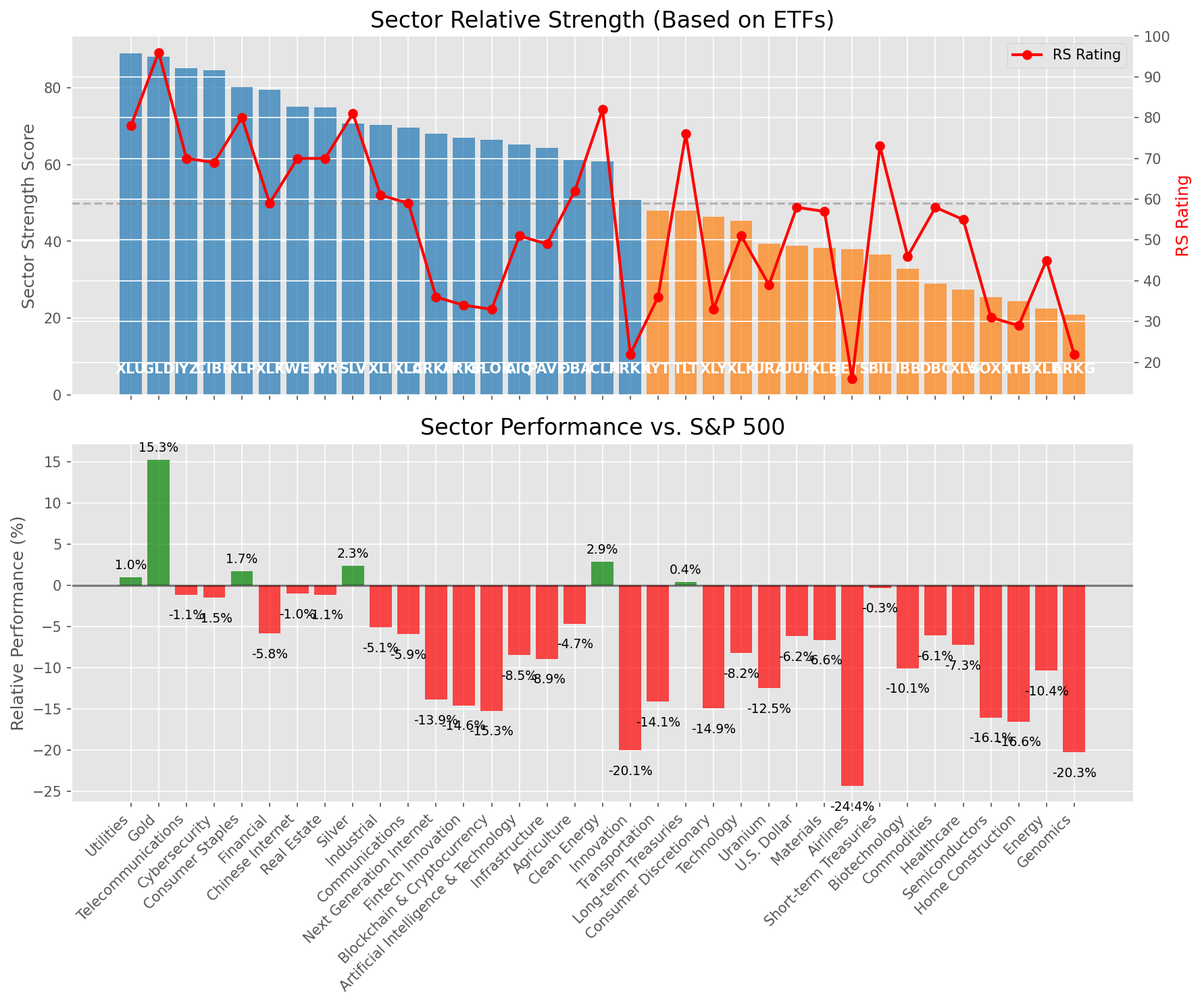
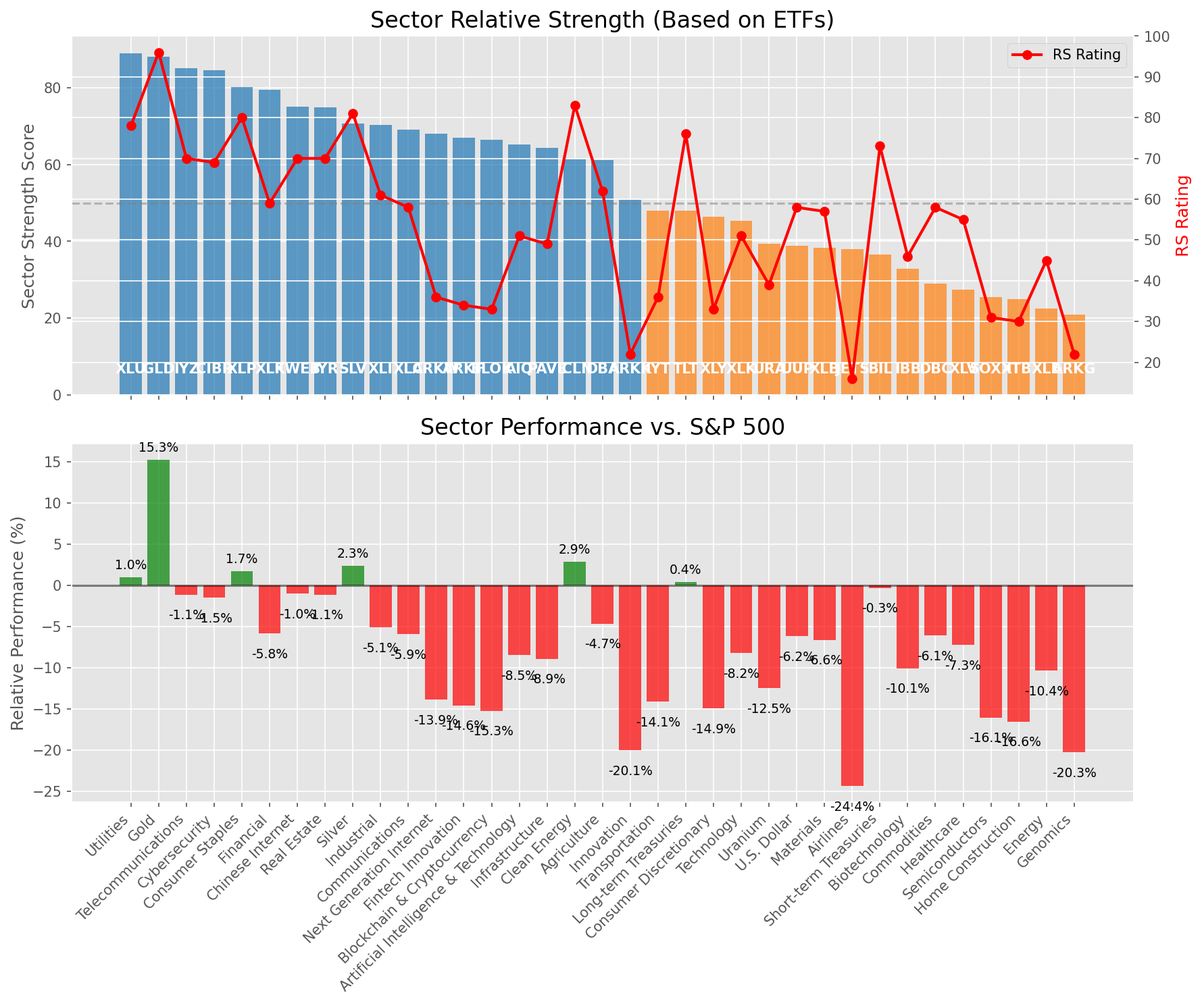
Add market report for 2025-05-01

diff --git a/oneil_relative_strength_report_2025-05-01.md b/oneil_relative_strength_report_2025-05-01.md
@@ -59,14 +59,14 @@ Based on William O'Neil's Relative Strength Methodology
 | [IYR](https://www.tradingview.com/chart/?symbol=IYR) | 74.8 | 70.0 | -1.14% | 10d ✓, 50d ✓, 200d ✗ | ↗ | Real Estate |
 | [SLV](https://www.tradingview.com/chart/?symbol=SLV) | 70.7 | 81.0 | 2.33% | 10d ✗, 50d ✗, 200d ✓ | ↗ | Silver |
 | [XLI](https://www.tradingview.com/chart/?symbol=XLI) | 70.3 | 61.0 | -5.11% | 10d ✓, 50d ✓, 200d ✗ | ↗ | Industrial |
-| [XLC](https://www.tradingview.com/chart/?symbol=XLC) | 69.6 | 59.0 | -5.92% | 10d ✓, 50d ✗, 200d ✓ | ↗ | Communications |
+| [XLC](https://www.tradingview.com/chart/?symbol=XLC) | 69.1 | 58.0 | -5.92% | 10d ✓, 50d ✗, 200d ✓ | ↗ | Communications |
 | [ARKW](https://www.tradingview.com/chart/?symbol=ARKW) | 68.0 | 36.0 | -13.88% | 10d ✓, 50d ✓, 200d ✓ | ↗ | Next Generation Internet |
 | [ARKF](https://www.tradingview.com/chart/?symbol=ARKF) | 67.0 | 34.0 | -14.58% | 10d ✓, 50d ✓, 200d ✓ | ↗ | Fintech Innovation |
 | [BLOK](https://www.tradingview.com/chart/?symbol=BLOK) | 66.5 | 33.0 | -15.26% | 10d ✓, 50d ✓, 200d ✓ | ↗ | Blockchain & Cryptocurrency |
 | [AIQ](https://www.tradingview.com/chart/?symbol=AIQ) | 65.3 | 51.0 | -8.47% | 10d ✓, 50d ✓, 200d ✗ | ↗ | Artificial Intelligence & Technology |
 | [PAVE](https://www.tradingview.com/chart/?symbol=PAVE) | 64.3 | 49.0 | -8.91% | 10d ✓, 50d ✓, 200d ✗ | ↗ | Infrastructure |
+| [ICLN](https://www.tradingview.com/chart/?symbol=ICLN) | 61.3 | 83.0 | 2.89% | 10d ✓, 50d ✓, 200d ✗ | ↘ | Clean Energy |
 | [DBA](https://www.tradingview.com/chart/?symbol=DBA) | 61.2 | 62.0 | -4.66% | 10d ✗, 50d ✗, 200d ✓ | ↗ | Agriculture |
-| [ICLN](https://www.tradingview.com/chart/?symbol=ICLN) | 60.8 | 82.0 | 2.89% | 10d ✓, 50d ✓, 200d ✗ | ↘ | Clean Energy |
 | [ARKK](https://www.tradingview.com/chart/?symbol=ARKK) | 50.8 | 22.0 | -20.06% | 10d ✓, 50d ✓, 200d ✗ | ↗ | Innovation |
 | [IYT](https://www.tradingview.com/chart/?symbol=IYT) | 47.9 | 36.0 | -14.14% | 10d ✓, 50d ✗, 200d ✗ | ↗ | Transportation |
 | [TLT](https://www.tradingview.com/chart/?symbol=TLT) | 47.9 | 76.0 | 0.40% | 10d ✓, 50d ✗, 200d ✗ | ↘ | Long-term Treasuries |
@@ -81,7 +81,7 @@ Based on William O'Neil's Relative Strength Methodology
 | [DBC](https://www.tradingview.com/chart/?symbol=DBC) | 29.0 | 58.0 | -6.09% | 10d ✗, 50d ✗, 200d ✗ | ↘ | Commodities |
 | [XLV](https://www.tradingview.com/chart/?symbol=XLV) | 27.5 | 55.0 | -7.26% | 10d ✗, 50d ✗, 200d ✗ | ↘ | Healthcare |
 | [SOXX](https://www.tradingview.com/chart/?symbol=SOXX) | 25.4 | 31.0 | -16.07% | 10d ✓, 50d ✗, 200d ✗ | ↘ | Semiconductors |
-| [ITB](https://www.tradingview.com/chart/?symbol=ITB) | 24.4 | 29.0 | -16.57% | 10d ✓, 50d ✗, 200d ✗ | ↘ | Home Construction |
+| [ITB](https://www.tradingview.com/chart/?symbol=ITB) | 24.9 | 30.0 | -16.57% | 10d ✓, 50d ✗, 200d ✗ | ↘ | Home Construction |
 | [XLE](https://www.tradingview.com/chart/?symbol=XLE) | 22.5 | 45.0 | -10.38% | 10d ✗, 50d ✗, 200d ✗ | ↘ | Energy |
 | [ARKG](https://www.tradingview.com/chart/?symbol=ARKG) | 20.9 | 22.0 | -20.27% | 10d ✓, 50d ✗, 200d ✗ | ↘ | Genomics |
 
@@ -106,102 +106,103 @@ The **Utilities** sector (represented by **XLU**) is showing particularly strong
 
 ## **Buy Recommendations**
 
-The following 96 stocks show exceptional relative strength:
+The following 97 stocks show exceptional relative strength:
 
 | RS Rating | Buy Score | Current Price | Chart | Name | Ticker |
 |-----------|-----------|---------------|-------|------|--------|
-| 100 | 100 | $116.20 | [Chart](https://www.tradingview.com/chart/?symbol=PLTR) | Palantir Technologies Inc. Class A Common Stock | PLTR |
 | 100 | 100 | $26.40 | [Chart](https://www.tradingview.com/chart/?symbol=DB) | Deutsche Bank Aktiengesellschaft | DB |
 | 100 | 100 | $52.03 | [Chart](https://www.tradingview.com/chart/?symbol=SEZL) | Sezzle Inc. Common Stock | SEZL |
+| 100 | 100 | $116.20 | [Chart](https://www.tradingview.com/chart/?symbol=PLTR) | Palantir Technologies Inc. Class A Common Stock | PLTR |
 | 100 | 100 | $25.50 | [Chart](https://www.tradingview.com/chart/?symbol=TGI) | Triumph Group, Inc. | TGI |
 | 99 | 100 | $279.70 | [Chart](https://www.tradingview.com/chart/?symbol=VRSN) | VeriSign Inc | VRSN |
+| 99 | 100 | $23.46 | [Chart](https://www.tradingview.com/chart/?symbol=OR) | Osisko Gold Royalties Ltd | OR |
 | 99 | 100 | $72.26 | [Chart](https://www.tradingview.com/chart/?symbol=VRNA) | Verona Pharma plc | VRNA |
 | 99 | 100 | $170.05 | [Chart](https://www.tradingview.com/chart/?symbol=PM) | Philip Morris International Inc. | PM |
-| 99 | 100 | $23.46 | [Chart](https://www.tradingview.com/chart/?symbol=OR) | Osisko Gold Royalties Ltd | OR |
 | 98 | 100 | $43.61 | [Chart](https://www.tradingview.com/chart/?symbol=MRX) | Marex Group plc Ordinary Shares | MRX |
 | 98 | 100 | $89.94 | [Chart](https://www.tradingview.com/chart/?symbol=SNEX) | StoneX Group Inc. Common Stock | SNEX |
 | 98 | 100 | $71.18 | [Chart](https://www.tradingview.com/chart/?symbol=WRB) | W.R. Berkley Corporation | WRB |
-| 97 | 100 | $117.26 | [Chart](https://www.tradingview.com/chart/?symbol=BJ) | BJs Wholesale Club Holdings, Inc. Common Stock | BJ |
 | 97 | 100 | $38.89 | [Chart](https://www.tradingview.com/chart/?symbol=EXEL) | Exelixis Inc | EXEL |
-| 97 | 100 | $277.11 | [Chart](https://www.tradingview.com/chart/?symbol=CME) | CME Group Inc. | CME |
-| 97 | 100 | $38.60 | [Chart](https://www.tradingview.com/chart/?symbol=CNP) | CenterPoint Energy, Inc. | CNP |
-| 97 | 100 | $72.18 | [Chart](https://www.tradingview.com/chart/?symbol=KR) | The Kroger Co. | KR |
+| 97 | 100 | $117.26 | [Chart](https://www.tradingview.com/chart/?symbol=BJ) | BJs Wholesale Club Holdings, Inc. Common Stock | BJ |
 | 97 | 100 | $115.94 | [Chart](https://www.tradingview.com/chart/?symbol=EHC) | Encompass Health Corporation Common Stock | EHC |
-| 97 | 100 | $29.78 | [Chart](https://www.tradingview.com/chart/?symbol=EUFN) | iShares MSCI Europe Financials ETF | EUFN |
-| 96 | 100 | $148.03 | [Chart](https://www.tradingview.com/chart/?symbol=HWM) | Howmet Aerospace Inc. | HWM |
+| 97 | 100 | $72.18 | [Chart](https://www.tradingview.com/chart/?symbol=KR) | The Kroger Co. | KR |
+| 97 | 100 | $38.60 | [Chart](https://www.tradingview.com/chart/?symbol=CNP) | CenterPoint Energy, Inc. | CNP |
+| 97 | 100 | $277.11 | [Chart](https://www.tradingview.com/chart/?symbol=CME) | CME Group Inc. | CME |
 | 96 | 100 | $1133.47 | [Chart](https://www.tradingview.com/chart/?symbol=NFLX) | NetFlix Inc | NFLX |
-| 96 | 100 | $27.64 | [Chart](https://www.tradingview.com/chart/?symbol=T) | AT&T Inc. | T |
+| 96 | 100 | $29.78 | [Chart](https://www.tradingview.com/chart/?symbol=EUFN) | iShares MSCI Europe Financials ETF | EUFN |
+| 96 | 100 | $148.03 | [Chart](https://www.tradingview.com/chart/?symbol=HWM) | Howmet Aerospace Inc. | HWM |
 | 96 | 100 | $59.31 | [Chart](https://www.tradingview.com/chart/?symbol=MO) | Altria Group, Inc. | MO |
+| 96 | 100 | $27.64 | [Chart](https://www.tradingview.com/chart/?symbol=T) | AT&T Inc. | T |
 | 96 | 100 | $158.80 | [Chart](https://www.tradingview.com/chart/?symbol=AGX) | Argan, Inc | AGX |
-| 95 | 100 | $89.54 | [Chart](https://www.tradingview.com/chart/?symbol=CCEP) | Coca-Cola Europacific Partners plc Ordinary Shares | CCEP |
+| 95 | 100 | $49.84 | [Chart](https://www.tradingview.com/chart/?symbol=GFL) | GFL Environmental Inc. Subordinate Voting Shares | GFL |
+| 95 | 100 | $16.94 | [Chart](https://www.tradingview.com/chart/?symbol=SPNT) | SiriusPoint Ltd. | SPNT |
 | 95 | 100 | $135.84 | [Chart](https://www.tradingview.com/chart/?symbol=DTE) | DTE Energy Company | DTE |
+| 95 | 100 | $89.54 | [Chart](https://www.tradingview.com/chart/?symbol=CCEP) | Coca-Cola Europacific Partners plc Ordinary Shares | CCEP |
 | 95 | 100 | $145.53 | [Chart](https://www.tradingview.com/chart/?symbol=CAH) | Cardinal Health, Inc. | CAH |
 | 95 | 100 | $39.46 | [Chart](https://www.tradingview.com/chart/?symbol=EWG) | iShares MSCI Germany ETF | EWG |
-| 95 | 100 | $16.94 | [Chart](https://www.tradingview.com/chart/?symbol=SPNT) | SiriusPoint Ltd. | SPNT |
-| 95 | 100 | $49.84 | [Chart](https://www.tradingview.com/chart/?symbol=GFL) | GFL Environmental Inc. Subordinate Voting Shares | GFL |
 | 95 | 100 | $40.23 | [Chart](https://www.tradingview.com/chart/?symbol=DRS) | Leonardo DRS, Inc. Common Stock | DRS |
 | 95 | 100 | $249.41 | [Chart](https://www.tradingview.com/chart/?symbol=RSG) | Republic Services Inc. | RSG |
-| 94 | 100 | $119.60 | [Chart](https://www.tradingview.com/chart/?symbol=COOP) | Mr. Cooper Group Inc. Common Stock | COOP |
 | 94 | 100 | $160.18 | [Chart](https://www.tradingview.com/chart/?symbol=ATO) | Atmos Energy Corporation | ATO |
-| 94 | 100 | $79.20 | [Chart](https://www.tradingview.com/chart/?symbol=NFG) | National Fuel Gas Co. | NFG |
 | 94 | 100 | $150.70 | [Chart](https://www.tradingview.com/chart/?symbol=LRN) | Stride, Inc. | LRN |
+| 94 | 100 | $119.60 | [Chart](https://www.tradingview.com/chart/?symbol=COOP) | Mr. Cooper Group Inc. Common Stock | COOP |
 | 94 | 100 | $290.43 | [Chart](https://www.tradingview.com/chart/?symbol=COR) | Cencora, Inc. | COR |
+| 94 | 100 | $79.20 | [Chart](https://www.tradingview.com/chart/?symbol=NFG) | National Fuel Gas Co. | NFG |
 | 94 | 100 | $530.23 | [Chart](https://www.tradingview.com/chart/?symbol=BRK.B) | BERKSHIRE HATHAWAY Class B | BRK.B |
-| 93 | 100 | $31.81 | [Chart](https://www.tradingview.com/chart/?symbol=AHR) | American Healthcare REIT, Inc. | AHR |
+| 93 | 100 | $137.31 | [Chart](https://www.tradingview.com/chart/?symbol=SE) | Sea Limited American Depositary Shares, each representing one Class A Ordinary Share | SE |
 | 93 | 100 | $50.01 | [Chart](https://www.tradingview.com/chart/?symbol=TRP) | TC Energy Corporation | TRP |
+| 93 | 100 | $31.81 | [Chart](https://www.tradingview.com/chart/?symbol=AHR) | American Healthcare REIT, Inc. | AHR |
 | 93 | 100 | $400.00 | [Chart](https://www.tradingview.com/chart/?symbol=DUOL) | Duolingo, Inc. Class A Common Stock | DUOL |
+| 92 | 100 | $19.36 | [Chart](https://www.tradingview.com/chart/?symbol=KT) | KT Corp. | KT |
 | 92 | 100 | $107.54 | [Chart](https://www.tradingview.com/chart/?symbol=AEP) | American Electric Power Company, Inc. | AEP |
-| 92 | 100 | $171.66 | [Chart](https://www.tradingview.com/chart/?symbol=SFM) | Sprouts Farmers Market, Inc. | SFM |
-| 92 | 100 | $108.79 | [Chart](https://www.tradingview.com/chart/?symbol=WEC) | WEC Energy Group, Inc. | WEC |
-| 92 | 100 | $602.26 | [Chart](https://www.tradingview.com/chart/?symbol=SPOT) | Spotify Technology S.A. | SPOT |
-| 92 | 100 | $22.79 | [Chart](https://www.tradingview.com/chart/?symbol=CXW) | CoreCivic, Inc. | CXW |
 | 92 | 100 | $99.95 | [Chart](https://www.tradingview.com/chart/?symbol=RBA) | RB Global, Inc. | RBA |
 | 92 | 100 | $150.33 | [Chart](https://www.tradingview.com/chart/?symbol=WELL) | Welltower Inc. | WELL |
-| 92 | 100 | $19.36 | [Chart](https://www.tradingview.com/chart/?symbol=KT) | KT Corp. | KT |
+| 92 | 100 | $171.66 | [Chart](https://www.tradingview.com/chart/?symbol=SFM) | Sprouts Farmers Market, Inc. | SFM |
+| 92 | 100 | $22.79 | [Chart](https://www.tradingview.com/chart/?symbol=CXW) | CoreCivic, Inc. | CXW |
+| 92 | 100 | $602.26 | [Chart](https://www.tradingview.com/chart/?symbol=SPOT) | Spotify Technology S.A. | SPOT |
 | 92 | 100 | $23.47 | [Chart](https://www.tradingview.com/chart/?symbol=SRAD) | Sportradar Group AG Class A Ordinary Shares | SRAD |
-| 91 | 100 | $291.82 | [Chart](https://www.tradingview.com/chart/?symbol=PEN) | Penumbra, Inc. | PEN |
+| 92 | 100 | $108.79 | [Chart](https://www.tradingview.com/chart/?symbol=WEC) | WEC Energy Group, Inc. | WEC |
 | 91 | 100 | $43.30 | [Chart](https://www.tradingview.com/chart/?symbol=BTI) | British American Tobacco p.l.c. American Depositary Shares, American Depositary Shares, each representing one Ordinary Share | BTI |
+| 91 | 100 | $291.82 | [Chart](https://www.tradingview.com/chart/?symbol=PEN) | Penumbra, Inc. | PEN |
 | 91 | 100 | $63.44 | [Chart](https://www.tradingview.com/chart/?symbol=FNF) | Fidelity National Financial, Inc. | FNF |
-| 90 | 100 | $54.08 | [Chart](https://www.tradingview.com/chart/?symbol=RELX) | RELX PLC | RELX |
-| 90 | 100 | $177.32 | [Chart](https://www.tradingview.com/chart/?symbol=DGX) | Quest Diagnostics Inc. | DGX |
 | 90 | 100 | $24.39 | [Chart](https://www.tradingview.com/chart/?symbol=EWS) | iShares MSCI Singapore ETF | EWS |
-| 90 | 100 | $117.33 | [Chart](https://www.tradingview.com/chart/?symbol=CWST) | Casella Waste Systems Inc | CWST |
-| 90 | 100 | $221.21 | [Chart](https://www.tradingview.com/chart/?symbol=CBOE) | Cboe Global Markets, Inc. | CBOE |
-| 90 | 100 | $138.07 | [Chart](https://www.tradingview.com/chart/?symbol=TW) | Tradeweb Markets Inc. Class A Common Stock | TW |
-| 90 | 100 | $1407.68 | [Chart](https://www.tradingview.com/chart/?symbol=ORLY) | O'Reilly Automotive, Inc. | ORLY |
 | 90 | 100 | $63.80 | [Chart](https://www.tradingview.com/chart/?symbol=RYTM) | Rhythm Pharmaceuticals, Inc. Common Stock | RYTM |
+| 90 | 100 | $221.21 | [Chart](https://www.tradingview.com/chart/?symbol=CBOE) | Cboe Global Markets, Inc. | CBOE |
 | 90 | 100 | $198.00 | [Chart](https://www.tradingview.com/chart/?symbol=BAP) | Credicorp LTD | BAP |
+| 90 | 100 | $117.33 | [Chart](https://www.tradingview.com/chart/?symbol=CWST) | Casella Waste Systems Inc | CWST |
+| 90 | 100 | $138.07 | [Chart](https://www.tradingview.com/chart/?symbol=TW) | Tradeweb Markets Inc. Class A Common Stock | TW |
+| 90 | 100 | $54.08 | [Chart](https://www.tradingview.com/chart/?symbol=RELX) | RELX PLC | RELX |
+| 90 | 100 | $1407.68 | [Chart](https://www.tradingview.com/chart/?symbol=ORLY) | O'Reilly Automotive, Inc. | ORLY |
+| 90 | 100 | $177.32 | [Chart](https://www.tradingview.com/chart/?symbol=DGX) | Quest Diagnostics Inc. | DGX |
 | 89 | 100 | $15.82 | [Chart](https://www.tradingview.com/chart/?symbol=BCS) | Barclays PLC | BCS |
 | 89 | 100 | $33.07 | [Chart](https://www.tradingview.com/chart/?symbol=UGI) | UGI Corporation | UGI |
-| 88 | 100 | $68.43 | [Chart](https://www.tradingview.com/chart/?symbol=EVRG) | Evergy, Inc. | EVRG |
 | 88 | 100 | $41.38 | [Chart](https://www.tradingview.com/chart/?symbol=HMN) | Horace Mann Educators Corporation | HMN |
 | 88 | 100 | $165.59 | [Chart](https://www.tradingview.com/chart/?symbol=THG) | The Hanover Insurance Group, Inc. | THG |
+| 88 | 100 | $68.43 | [Chart](https://www.tradingview.com/chart/?symbol=EVRG) | Evergy, Inc. | EVRG |
 | 87 | 100 | $70.40 | [Chart](https://www.tradingview.com/chart/?symbol=XEL) | Xcel Energy, Inc. | XEL |
 | 86 | 100 | $97.42 | [Chart](https://www.tradingview.com/chart/?symbol=AXS) | Axis Capital Holders Limited | AXS |
 | 89 | 99 | $162.07 | [Chart](https://www.tradingview.com/chart/?symbol=MAA) | Mid-America Apartment Communities, Inc. | MAA |
-| 89 | 99 | $170.84 | [Chart](https://www.tradingview.com/chart/?symbol=ICE) | Intercontinental Exchange  Inc. | ICE |
 | 89 | 99 | $5101.43 | [Chart](https://www.tradingview.com/chart/?symbol=BKNG) | Booking Holdings Inc. Common Stock | BKNG |
+| 89 | 99 | $170.84 | [Chart](https://www.tradingview.com/chart/?symbol=ICE) | Intercontinental Exchange  Inc. | ICE |
 | 88 | 99 | $58.39 | [Chart](https://www.tradingview.com/chart/?symbol=ULS) | UL Solutions Inc. | ULS |
 | 87 | 99 | $57.62 | [Chart](https://www.tradingview.com/chart/?symbol=CHEF) | The Chef's Warehouse Inc | CHEF |
 | 86 | 99 | $37.64 | [Chart](https://www.tradingview.com/chart/?symbol=TDS) | Telephone and Data Systems Inc. | TDS |
 | 85 | 98 | $107.24 | [Chart](https://www.tradingview.com/chart/?symbol=ATGE) | Adtalem Global Education Inc. Common Shares | ATGE |
-| 85 | 97 | $29.99 | [Chart](https://www.tradingview.com/chart/?symbol=SLM) | SLM Corporation | SLM |
 | 85 | 97 | $202.33 | [Chart](https://www.tradingview.com/chart/?symbol=CRS) | Carpenter Technology Corp | CRS |
+| 85 | 97 | $29.99 | [Chart](https://www.tradingview.com/chart/?symbol=SLM) | SLM Corporation | SLM |
+| 84 | 97 | $58.80 | [Chart](https://www.tradingview.com/chart/?symbol=WMB) | Williams Companies Inc. | WMB |
 | 84 | 97 | $30.90 | [Chart](https://www.tradingview.com/chart/?symbol=LTH) | Life Time Group Holdings, Inc. | LTH |
 | 84 | 97 | $163.16 | [Chart](https://www.tradingview.com/chart/?symbol=TKO) | TKO Group Holdings, Inc. | TKO |
-| 84 | 97 | $58.80 | [Chart](https://www.tradingview.com/chart/?symbol=WMB) | Williams Companies Inc. | WMB |
 | 86 | 96 | $166.02 | [Chart](https://www.tradingview.com/chart/?symbol=CVLT) | Commault Systems, Inc. | CVLT |
-| 86 | 96 | $196.18 | [Chart](https://www.tradingview.com/chart/?symbol=WCN) | Waste Connections, Inc. | WCN |
 | 86 | 96 | $42.55 | [Chart](https://www.tradingview.com/chart/?symbol=GLNG) | Golar LNG Ltd | GLNG |
-| 83 | 96 | $288.93 | [Chart](https://www.tradingview.com/chart/?symbol=SAP) | SAP SE | SAP |
+| 86 | 96 | $196.18 | [Chart](https://www.tradingview.com/chart/?symbol=WCN) | Waste Connections, Inc. | WCN |
 | 83 | 96 | $104.21 | [Chart](https://www.tradingview.com/chart/?symbol=FTNT) | Fortinet, Inc. | FTNT |
+| 83 | 96 | $288.93 | [Chart](https://www.tradingview.com/chart/?symbol=SAP) | SAP SE | SAP |
 | 85 | 95 | $56.45 | [Chart](https://www.tradingview.com/chart/?symbol=IGF) | iShares Global Infrastructure ETF | IGF |
 | 85 | 95 | $33.45 | [Chart](https://www.tradingview.com/chart/?symbol=PAY) | Paymentus Holdings, Inc. | PAY |
 | 84 | 95 | $34.93 | [Chart](https://www.tradingview.com/chart/?symbol=KTOS) | Kratos Defense & Security Solutions, Inc. | KTOS |
 | 84 | 94 | $124.17 | [Chart](https://www.tradingview.com/chart/?symbol=BECN) | Beacon Roofing Supply, Inc. | BECN |
 | 81 | 94 | $71.48 | [Chart](https://www.tradingview.com/chart/?symbol=CORT) | Corcept Therapeutics Inc. | CORT |
-| 82 | 93 | $40.82 | [Chart](https://www.tradingview.com/chart/?symbol=AB) | AllianceBernstein Holding, L.P. | AB |
 | 82 | 93 | $50.13 | [Chart](https://www.tradingview.com/chart/?symbol=VTIP) | Vanguard Short-Term Inflation-Protected Securities Index Fund | VTIP |
+| 82 | 93 | $40.82 | [Chart](https://www.tradingview.com/chart/?symbol=AB) | AllianceBernstein Holding, L.P. | AB |
 | 82 | 92 | $40.77 | [Chart](https://www.tradingview.com/chart/?symbol=FHI) | Federated Hermes, Inc. | FHI |
 | 81 | 92 | $999.04 | [Chart](https://www.tradingview.com/chart/?symbol=COST) | Costco Wholesale Corp | COST |
 | 81 | 92 | $294.51 | [Chart](https://www.tradingview.com/chart/?symbol=VRSK) | Verisk Analytics, Inc. Common Stock | VRSK |
@@ -212,7 +213,7 @@ The following 96 stocks show exceptional relative strength:
 
 ## **Sell Recommendations**
 
-The following 124 stocks show deteriorating relative strength:
+The following 123 stocks show deteriorating relative strength:
 
 | RS Rating | Sell Score | Current Price | Chart | Name | Ticker |
 |-----------|------------|---------------|-------|------|--------|
@@ -220,23 +221,23 @@ The following 124 stocks show deteriorating relative strength:
 | 1 | 100 | $10.86 | [Chart](https://www.tradingview.com/chart/?symbol=XNCR) | Xencor, Inc. | XNCR |
 | 2 | 100 | $11.16 | [Chart](https://www.tradingview.com/chart/?symbol=NRIX) | Nurix Therapeutics, Inc. Common stock | NRIX |
 | 2 | 100 | $28.31 | [Chart](https://www.tradingview.com/chart/?symbol=CIVI) | Civitas Resources, Inc. | CIVI |
-| 3 | 100 | $12.81 | [Chart](https://www.tradingview.com/chart/?symbol=GCT) | GigaCloud Technology Inc Class A Ordinary Shares | GCT |
 | 3 | 100 | $16.43 | [Chart](https://www.tradingview.com/chart/?symbol=SSTK) | SHUTTERSTOCK, INC. | SSTK |
-| 3 | 100 | $13.90 | [Chart](https://www.tradingview.com/chart/?symbol=ODP) | The ODP Corporation Common Stock | ODP |
+| 3 | 100 | $12.81 | [Chart](https://www.tradingview.com/chart/?symbol=GCT) | GigaCloud Technology Inc Class A Ordinary Shares | GCT |
 | 3 | 100 | $117.43 | [Chart](https://www.tradingview.com/chart/?symbol=GLOB) | GLOBANT S.A. | GLOB |
+| 3 | 100 | $13.90 | [Chart](https://www.tradingview.com/chart/?symbol=ODP) | The ODP Corporation Common Stock | ODP |
 | 3 | 100 | $18.29 | [Chart](https://www.tradingview.com/chart/?symbol=DAVA) | Endava plc American Depositary Shares (each representing one Class A Ordinary Share) | DAVA |
-| 4 | 100 | $59.40 | [Chart](https://www.tradingview.com/chart/?symbol=LABU) | Direxion Daily S&P Biotech Bull 3X Shares | LABU |
-| 4 | 100 | $23.00 | [Chart](https://www.tradingview.com/chart/?symbol=NSSC) | Napco Security Technologies, Inc | NSSC |
 | 4 | 100 | $23.41 | [Chart](https://www.tradingview.com/chart/?symbol=RPD) | Rapid7, Inc. Common Stock | RPD |
-| 5 | 100 | $21.05 | [Chart](https://www.tradingview.com/chart/?symbol=SPT) | Sprout Social, Inc Class A Common Stock | SPT |
+| 4 | 100 | $23.00 | [Chart](https://www.tradingview.com/chart/?symbol=NSSC) | Napco Security Technologies, Inc | NSSC |
+| 4 | 100 | $59.40 | [Chart](https://www.tradingview.com/chart/?symbol=LABU) | Direxion Daily S&P Biotech Bull 3X Shares | LABU |
 | 5 | 100 | $71.63 | [Chart](https://www.tradingview.com/chart/?symbol=MKSI) | MKS Instruments Inc | MKSI |
 | 5 | 100 | $10.02 | [Chart](https://www.tradingview.com/chart/?symbol=LSPD) | Lightspeed Commerce Inc. | LSPD |
-| 6 | 100 | $13.25 | [Chart](https://www.tradingview.com/chart/?symbol=DV) | DoubleVerify Holdings, Inc. | DV |
+| 5 | 100 | $21.05 | [Chart](https://www.tradingview.com/chart/?symbol=SPT) | Sprout Social, Inc Class A Common Stock | SPT |
 | 6 | 100 | $26.11 | [Chart](https://www.tradingview.com/chart/?symbol=JACK) | Jack in the Box Inc. | JACK |
+| 6 | 100 | $13.25 | [Chart](https://www.tradingview.com/chart/?symbol=DV) | DoubleVerify Holdings, Inc. | DV |
 | 8 | 100 | $46.46 | [Chart](https://www.tradingview.com/chart/?symbol=PSTG) | Pure Storage, Inc. Class A | PSTG |
 | 11 | 100 | $31.47 | [Chart](https://www.tradingview.com/chart/?symbol=UWM) | ProShares Ultra Russell2000 | UWM |
-| 11 | 100 | $16.22 | [Chart](https://www.tradingview.com/chart/?symbol=MLKN) | MillerKnoll, Inc. Common Stock | MLKN |
 | 11 | 100 | $28.01 | [Chart](https://www.tradingview.com/chart/?symbol=SRDX) | Surmodics, Inc. Common Stock | SRDX |
+| 11 | 100 | $16.22 | [Chart](https://www.tradingview.com/chart/?symbol=MLKN) | MillerKnoll, Inc. Common Stock | MLKN |
 | 13 | 100 | $15.69 | [Chart](https://www.tradingview.com/chart/?symbol=DXC) | DXC Technology Company | DXC |
 | 15 | 100 | $11.57 | [Chart](https://www.tradingview.com/chart/?symbol=JAMF) | Jamf Holding Corp. Common Stock | JAMF |
 | 3 | 99 | $76.51 | [Chart](https://www.tradingview.com/chart/?symbol=ILMN) | Illumina Inc | ILMN |
@@ -258,8 +259,8 @@ The following 124 stocks show deteriorating relative strength:
 | 14 | 95 | $18.86 | [Chart](https://www.tradingview.com/chart/?symbol=VECO) | Veeco Instruments Inc | VECO |
 | 16 | 95 | $59.26 | [Chart](https://www.tradingview.com/chart/?symbol=AMWD) | American Woodmark Corp | AMWD |
 | 19 | 95 | $21.37 | [Chart](https://www.tradingview.com/chart/?symbol=ST) | Sensata Technologies Holding plc | ST |
-| 8 | 94 | $29.03 | [Chart](https://www.tradingview.com/chart/?symbol=XPEL) | XPEL, Inc. Common Stock | XPEL |
 | 8 | 94 | $10.01 | [Chart](https://www.tradingview.com/chart/?symbol=VYX) | NCR Voyix Corporation | VYX |
+| 8 | 94 | $29.03 | [Chart](https://www.tradingview.com/chart/?symbol=XPEL) | XPEL, Inc. Common Stock | XPEL |
 | 12 | 93 | $10.77 | [Chart](https://www.tradingview.com/chart/?symbol=SONO) | Sonos, Inc. Common Stock | SONO |
 | 15 | 93 | $10.38 | [Chart](https://www.tradingview.com/chart/?symbol=SEMR) | SEMrush Holdings, Inc. | SEMR |
 | 10 | 92 | $39.82 | [Chart](https://www.tradingview.com/chart/?symbol=USD) | ProShares Ultra Semiconductors | USD |
@@ -270,11 +271,10 @@ The following 124 stocks show deteriorating relative strength:
 | 21 | 92 | $62.36 | [Chart](https://www.tradingview.com/chart/?symbol=PLUS) | ePlus Inc | PLUS |
 | 28 | 92 | $14.13 | [Chart](https://www.tradingview.com/chart/?symbol=FXN) | First Trust Energy AlphaDEX Fund | FXN |
 | 12 | 91 | $101.18 | [Chart](https://www.tradingview.com/chart/?symbol=TOL) | Toll Brothers, Inc. | TOL |
-| 16 | 91 | $15.54 | [Chart](https://www.tradingview.com/chart/?symbol=PENN) | PENN Entertainment, Inc. Common Stock | PENN |
 | 23 | 91 | $11.35 | [Chart](https://www.tradingview.com/chart/?symbol=PBR) | PETROLEO BRASILEIRO S.A.-PETROBRAS ADS (REP 1 COMMON SHARE) | PBR |
 | 25 | 91 | $96.65 | [Chart](https://www.tradingview.com/chart/?symbol=AMD) | Advanced Micro Devices | AMD |
 | 28 | 91 | $16.43 | [Chart](https://www.tradingview.com/chart/?symbol=TRMD) | TORM plc Class A Common Stock | TRMD |
-| 16 | 90 | $31.48 | [Chart](https://www.tradingview.com/chart/?symbol=DOCN) | DigitalOcean Holdings, Inc. | DOCN |
+| 17 | 90 | $15.54 | [Chart](https://www.tradingview.com/chart/?symbol=PENN) | PENN Entertainment, Inc. Common Stock | PENN |
 | 11 | 89 | $10.31 | [Chart](https://www.tradingview.com/chart/?symbol=VREX) | Varex Imaging Corporation Common Stock | VREX |
 | 12 | 89 | $13.92 | [Chart](https://www.tradingview.com/chart/?symbol=IVZ) | Invesco LTD | IVZ |
 | 21 | 89 | $92.08 | [Chart](https://www.tradingview.com/chart/?symbol=CHRD) | Chord Energy Corporation Common Stock | CHRD |
@@ -282,20 +282,20 @@ The following 124 stocks show deteriorating relative strength:
 | 23 | 89 | $12.10 | [Chart](https://www.tradingview.com/chart/?symbol=PR) | Permian Resources Corporation | PR |
 | 27 | 89 | $12.98 | [Chart](https://www.tradingview.com/chart/?symbol=MED) | Medifast, Inc. | MED |
 | 19 | 88 | $12.14 | [Chart](https://www.tradingview.com/chart/?symbol=KRP) | Kimbell Royalty Partners, LP Common Units representing Limited Partner Interests | KRP |
-| 24 | 88 | $166.56 | [Chart](https://www.tradingview.com/chart/?symbol=IBP) | INSTALLED BUILDING PRODUCTS, INC. | IBP |
 | 24 | 88 | $11.50 | [Chart](https://www.tradingview.com/chart/?symbol=KELYA) | Kelly Services Inc | KELYA |
 | 14 | 87 | $37.71 | [Chart](https://www.tradingview.com/chart/?symbol=TWST) | Twist Bioscience Corporation Common Stock | TWST |
 | 16 | 87 | $10.15 | [Chart](https://www.tradingview.com/chart/?symbol=HLIT) | Harmonic Inc | HLIT |
 | 16 | 87 | $11.72 | [Chart](https://www.tradingview.com/chart/?symbol=APLE) | Apple Hospitality REIT, Inc. | APLE |
-| 19 | 87 | $53.74 | [Chart](https://www.tradingview.com/chart/?symbol=KBH) | KB Home | KBH |
 | 22 | 87 | $15.52 | [Chart](https://www.tradingview.com/chart/?symbol=AMZY) | YieldMax AMZN Option Income Strategy ETF | AMZY |
+| 24 | 87 | $166.56 | [Chart](https://www.tradingview.com/chart/?symbol=IBP) | INSTALLED BUILDING PRODUCTS, INC. | IBP |
 | 27 | 87 | $41.87 | [Chart](https://www.tradingview.com/chart/?symbol=NXT) | Nextracker Inc. Class A Common Stock | NXT |
 | 29 | 87 | $10.65 | [Chart](https://www.tradingview.com/chart/?symbol=PBR.A) | Petroleo Brasileiro S.A.-Petrobras | PBR.A |
-| 16 | 86 | $29.05 | [Chart](https://www.tradingview.com/chart/?symbol=MBUU) | Malibu Boats, Inc. Class A | MBUU |
 | 18 | 86 | $25.39 | [Chart](https://www.tradingview.com/chart/?symbol=HPQ) | HP Inc. | HPQ |
+| 20 | 86 | $53.74 | [Chart](https://www.tradingview.com/chart/?symbol=KBH) | KB Home | KBH |
 | 24 | 86 | $11.15 | [Chart](https://www.tradingview.com/chart/?symbol=GES) | Guess?, Inc. | GES |
 | 28 | 86 | $10.47 | [Chart](https://www.tradingview.com/chart/?symbol=GSBD) | Goldman Sachs BDC, Inc. | GSBD |
 | 29 | 86 | $27.06 | [Chart](https://www.tradingview.com/chart/?symbol=COLL) | Collegium Pharmaceutical, Inc. Common Stock | COLL |
+| 16 | 85 | $29.05 | [Chart](https://www.tradingview.com/chart/?symbol=MBUU) | Malibu Boats, Inc. Class A | MBUU |
 | 20 | 85 | $33.39 | [Chart](https://www.tradingview.com/chart/?symbol=SCSC) | Scansource Inc | SCSC |
 | 20 | 85 | $10.26 | [Chart](https://www.tradingview.com/chart/?symbol=PACS) | PACS Group, Inc. | PACS |
 | 24 | 85 | $74.30 | [Chart](https://www.tradingview.com/chart/?symbol=AGYS) | Agilysys, Inc. Common Stock (DE) | AGYS |
@@ -306,16 +306,16 @@ The following 124 stocks show deteriorating relative strength:
 | 26 | 84 | $30.72 | [Chart](https://www.tradingview.com/chart/?symbol=MBIN) | Merchants Bancorp Common Stock | MBIN |
 | 34 | 84 | $13.77 | [Chart](https://www.tradingview.com/chart/?symbol=MANU) | MANCHESTER UNITED PLC | MANU |
 | 19 | 83 | $210.06 | [Chart](https://www.tradingview.com/chart/?symbol=FDX) | FedEx Corporation | FDX |
-| 31 | 83 | $35.01 | [Chart](https://www.tradingview.com/chart/?symbol=MGA) | Magna International | MGA |
 | 18 | 82 | $18.57 | [Chart](https://www.tradingview.com/chart/?symbol=S) | SentinelOne, Inc. | S |
 | 22 | 82 | $35.94 | [Chart](https://www.tradingview.com/chart/?symbol=CALF) | Pacer US Small Cap Cash Cows ETF | CALF |
 | 26 | 82 | $69.22 | [Chart](https://www.tradingview.com/chart/?symbol=TTC) | Toro Company (The) | TTC |
+| 32 | 82 | $35.01 | [Chart](https://www.tradingview.com/chart/?symbol=MGA) | Magna International | MGA |
 | 27 | 81 | $11.96 | [Chart](https://www.tradingview.com/chart/?symbol=OEC) | Orion S.A. | OEC |
 | 31 | 81 | $28.80 | [Chart](https://www.tradingview.com/chart/?symbol=TAN) | Invesco Solar ETF | TAN |
 | 33 | 81 | $298.59 | [Chart](https://www.tradingview.com/chart/?symbol=BLD) | TopBuild Corp. Common Stock | BLD |
 | 35 | 81 | $24.22 | [Chart](https://www.tradingview.com/chart/?symbol=AMRK) | A-Mark Precious Metals, Inc. | AMRK |
 | 26 | 80 | $10.71 | [Chart](https://www.tradingview.com/chart/?symbol=DBRG) | DigitalBridge Group, Inc. | DBRG |
-| 29 | 80 | $91.86 | [Chart](https://www.tradingview.com/chart/?symbol=ITB) | iShares U.S. Home Construction ETF | ITB |
+| 30 | 79 | $91.86 | [Chart](https://www.tradingview.com/chart/?symbol=ITB) | iShares U.S. Home Construction ETF | ITB |
 | 32 | 79 | $69.08 | [Chart](https://www.tradingview.com/chart/?symbol=XRT) | SPDR S&P Retail ETF | XRT |
 | 29 | 78 | $15.03 | [Chart](https://www.tradingview.com/chart/?symbol=ZIM) | ZIM Integrated Shipping Services Ltd. | ZIM |
 | 34 | 78 | $10.01 | [Chart](https://www.tradingview.com/chart/?symbol=XPRO) | Expro Group Holdings N.V. | XPRO |
@@ -323,23 +323,23 @@ The following 124 stocks show deteriorating relative strength:
 | 29 | 75 | $42.19 | [Chart](https://www.tradingview.com/chart/?symbol=HNI) | HNI Corporation | HNI |
 | 32 | 75 | $52.11 | [Chart](https://www.tradingview.com/chart/?symbol=LW) | Lamb Weston Holdings, Inc. | LW |
 | 33 | 74 | $114.88 | [Chart](https://www.tradingview.com/chart/?symbol=VLO) | Valero Energy Corporation | VLO |
+| 39 | 74 | $91.95 | [Chart](https://www.tradingview.com/chart/?symbol=DELL) | Dell Technologies Inc. | DELL |
 | 30 | 73 | $16.59 | [Chart](https://www.tradingview.com/chart/?symbol=MLNK) | MeridianLink, Inc. | MLNK |
 | 31 | 73 | $10.40 | [Chart](https://www.tradingview.com/chart/?symbol=AVO) | Mission Produce, Inc. Common Stock | AVO |
 | 35 | 73 | $95.18 | [Chart](https://www.tradingview.com/chart/?symbol=XHB) | SPDR S&P Homebuilders ETF | XHB |
 | 36 | 73 | $145.59 | [Chart](https://www.tradingview.com/chart/?symbol=IWN) | iShares Russell 2000 Value ETF | IWN |
-| 39 | 73 | $91.95 | [Chart](https://www.tradingview.com/chart/?symbol=DELL) | Dell Technologies Inc. | DELL |
 | 29 | 72 | $73.95 | [Chart](https://www.tradingview.com/chart/?symbol=SLYV) | SPDR S&P 600 Small Cap Value ETF (based on S&P SmallCap 600 Value Index symbol--CVK) | SLYV |
-| 38 | 72 | $24.91 | [Chart](https://www.tradingview.com/chart/?symbol=HASI) | HA Sustainable Infrastructure Capital, Inc. | HASI |
+| 38 | 71 | $24.91 | [Chart](https://www.tradingview.com/chart/?symbol=HASI) | HA Sustainable Infrastructure Capital, Inc. | HASI |
 | 31 | 70 | $195.65 | [Chart](https://www.tradingview.com/chart/?symbol=NVMI) | Nova Ltd. Ordinary Shares | NVMI |
 | 32 | 70 | $17.81 | [Chart](https://www.tradingview.com/chart/?symbol=HTGC) | Hercules Capital, Inc. | HTGC |
 | 37 | 70 | $190.36 | [Chart](https://www.tradingview.com/chart/?symbol=NDSN) | Nordson Corp | NDSN |
 | 39 | 70 | $17.25 | [Chart](https://www.tradingview.com/chart/?symbol=FLO) | Flowers Foods, Inc. | FLO |
 | 39 | 70 | $10.09 | [Chart](https://www.tradingview.com/chart/?symbol=ARLO) | Arlo Technologies, Inc. | ARLO |
-| 35 | 67 | $196.07 | [Chart](https://www.tradingview.com/chart/?symbol=IWM) | iShares Russell 2000 ETF | IWM |
 | 36 | 67 | $21.09 | [Chart](https://www.tradingview.com/chart/?symbol=MGY) | Magnolia Oil & Gas Corporation Class A Common Stock | MGY |
 | 37 | 67 | $30.41 | [Chart](https://www.tradingview.com/chart/?symbol=MTCH) | Match Group, Inc | MTCH |
 | 39 | 67 | $14.52 | [Chart](https://www.tradingview.com/chart/?symbol=RYLD) | Global X Russell 2000 Covered Call ETF | RYLD |
 | 34 | 66 | $17.87 | [Chart](https://www.tradingview.com/chart/?symbol=JKS) | JINKOSOLAR HOLDINGS CO | JKS |
+| 35 | 66 | $196.07 | [Chart](https://www.tradingview.com/chart/?symbol=IWM) | iShares Russell 2000 ETF | IWM |
 
 ## **Methodology**
 
